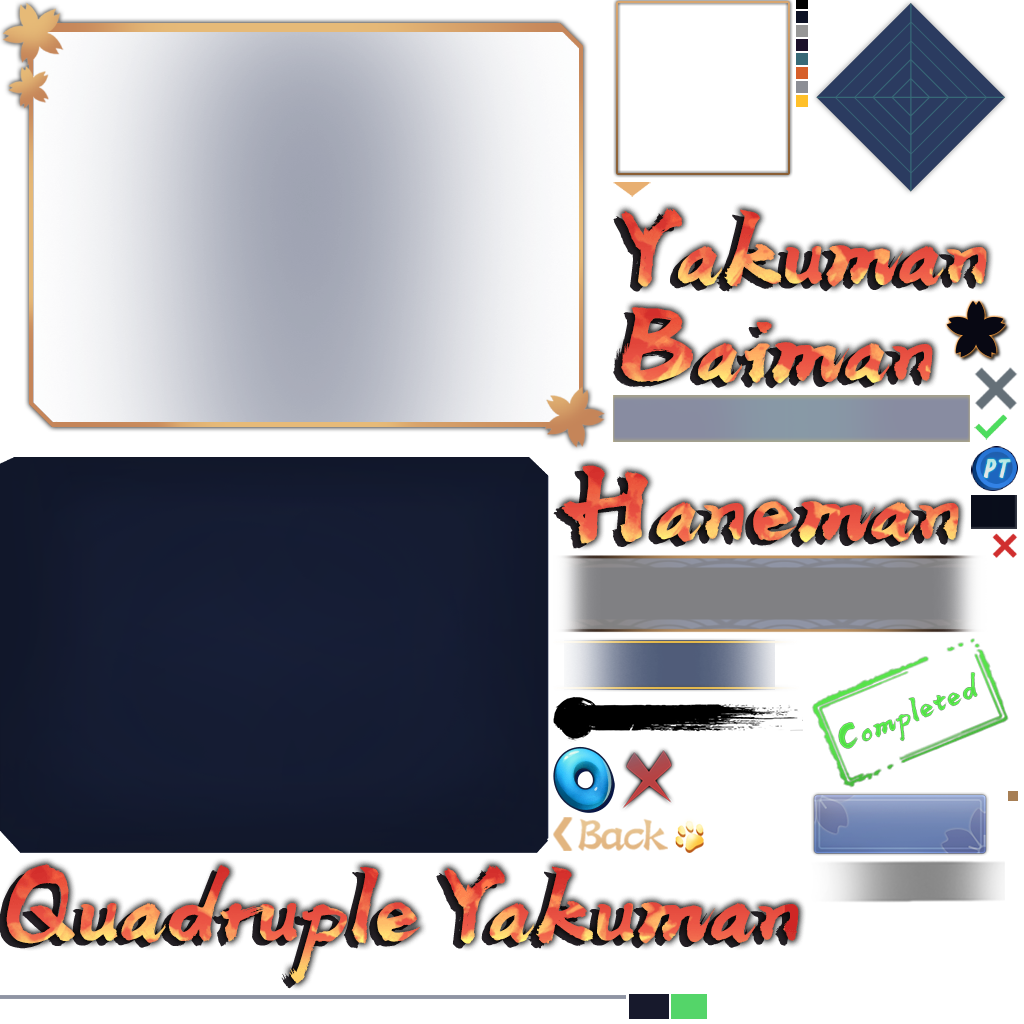
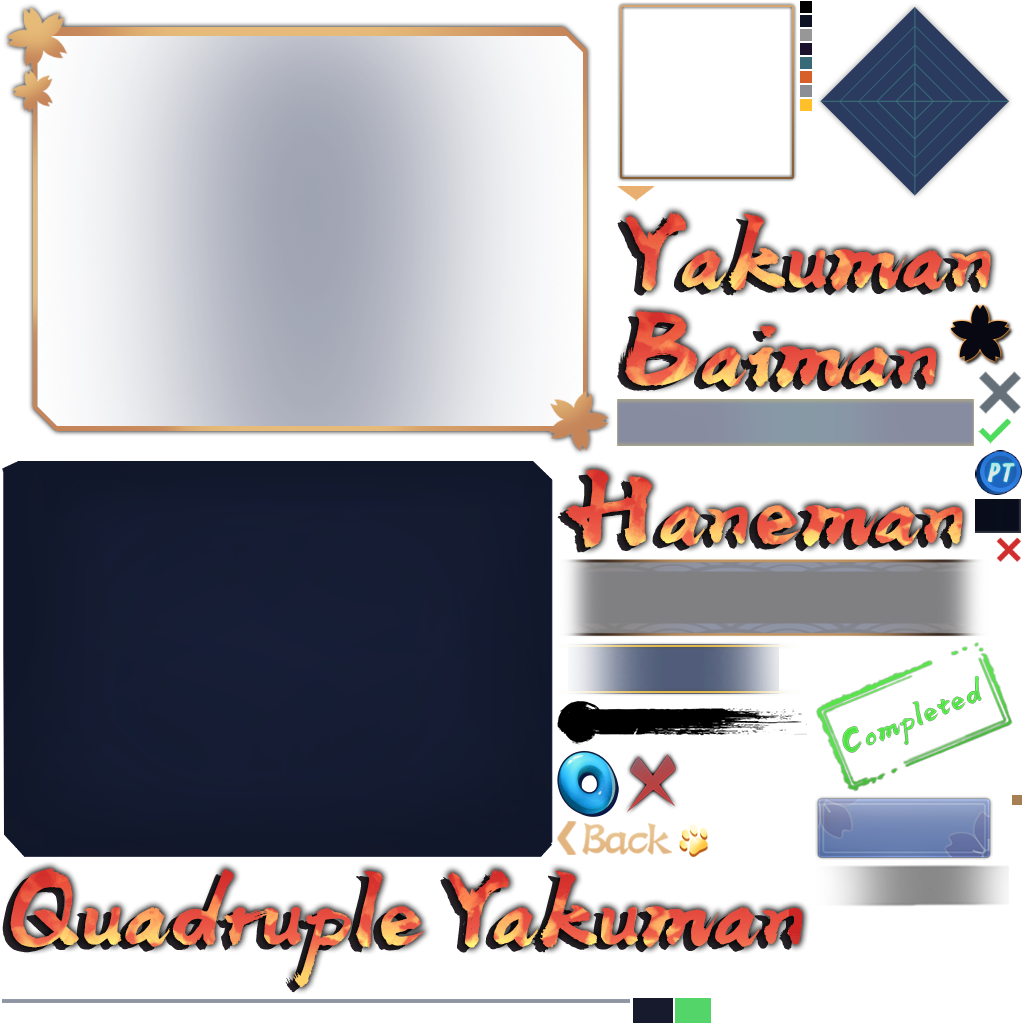
Fix issue about packer generate negative position

Changed region(s): [[0.0, 0.0, 1.0, 1.0], [0.8438, 0.875, 0.9688, 0.9062]]

diff --git a/src/pack_atlas.py b/src/pack_atlas.py
@@ -8,27 +8,31 @@ from rectpack import newPacker
 
 size_factor = 8
 
-def export_image(images, positions, group_id, target_size):
+def export_image(images, positions, group_id, target_size, padding):
     new_image = Image.new('RGBA', (target_size, target_size), (0, 0, 0, 0))
     for i, image in enumerate(images):
         position = positions[i]
+        real_position = (position[0] + padding, position[1] + padding)
         name = image['path'].name
-        new_image.paste(image['cropped_data'], position)
+        new_image.paste(
+            image['cropped_data'],
+            real_position
+        )
         colors = image['cropped_data'].getcolors(2)
         if (colors and len(colors) == 1):
             draw = ImageDraw.Draw(new_image)
             draw.rectangle((
-                position[0] - 1,
-                position[1] - 1,
-                position[0] + image['frame']['w'],
-                position[1] + image['frame']['h']
+                real_position[0] - 1,
+                real_position[1] - 1,
+                real_position[0] + image['frame']['w'],
+                real_position[1] + image['frame']['h']
             ), width=1, outline=colors[0][1])
-            print(colors)
+            # print(colors)
         del image['path']
         del image['cropped_data']
         image['frame']['idx'] = group_id
-        image['frame']['x'] = position[0]
-        image['frame']['y'] = position[1]
+        image['frame']['x'] = real_position[0]
+        image['frame']['y'] = real_position[1]
         atlas['frames'][name] = image
     group_number = group_id if group_id > 0 else ''
     new_image_name = f"{atlas_unpack_path.name[:-len('.atlas_unpack')]}{group_number}.png"
@@ -120,36 +124,10 @@ for abin in packer:
     positions = []
     for rect in abin:
         image_group.append(images[rect.rid])
-        positions.append((rect.x - padding, rect.y - padding))
+        positions.append((rect.x, rect.y))
         images[rect.rid] = None
-    new_image_names.append(export_image(image_group, positions, group_id, target_size))
+    new_image_names.append(export_image(image_group, positions, group_id, target_size, padding))
     group_id += 1
-
-
-# image_group = []
-# image = None
-# positions = None
-# group_id = 0
-# new_image_names = []
-# while images:
-#     image = images.pop(0)
-#     temp_image_size = image_sizes + [(image["frame"]["w"], image["frame"]["h"])]
-
-#     positions = rpack.pack(temp_image_size)
-#     width, height = rpack.enclosing_size(temp_image_size, positions)
-#     enclosing_max = max(width, height)
-
-#     if enclosing_max > target_size:
-#         new_image_names.append(export_image(image_group, positions, group_id, target_size))
-#         group_id += 1
-#         image_sizes = []
-#         image_group = []
-#     else:
-#         image_sizes = temp_image_size
-#         image_group.append(image)
-# else:
-#     if positions:
-#         new_image_names.append(export_image(image_group + [image], positions, group_id, target_size))
 
 atlas['meta']['image'] = ",".join(new_image_names)
 
